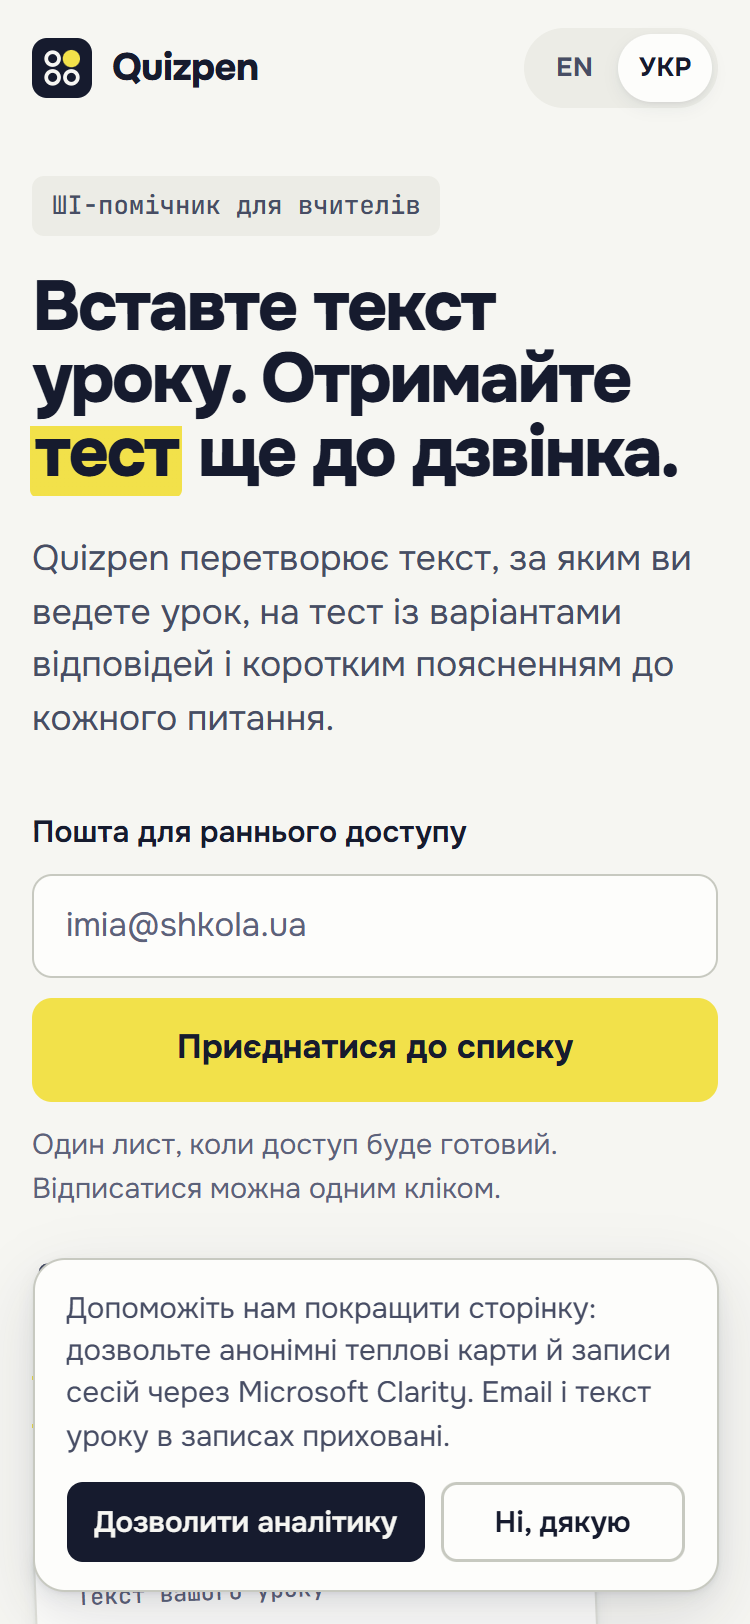
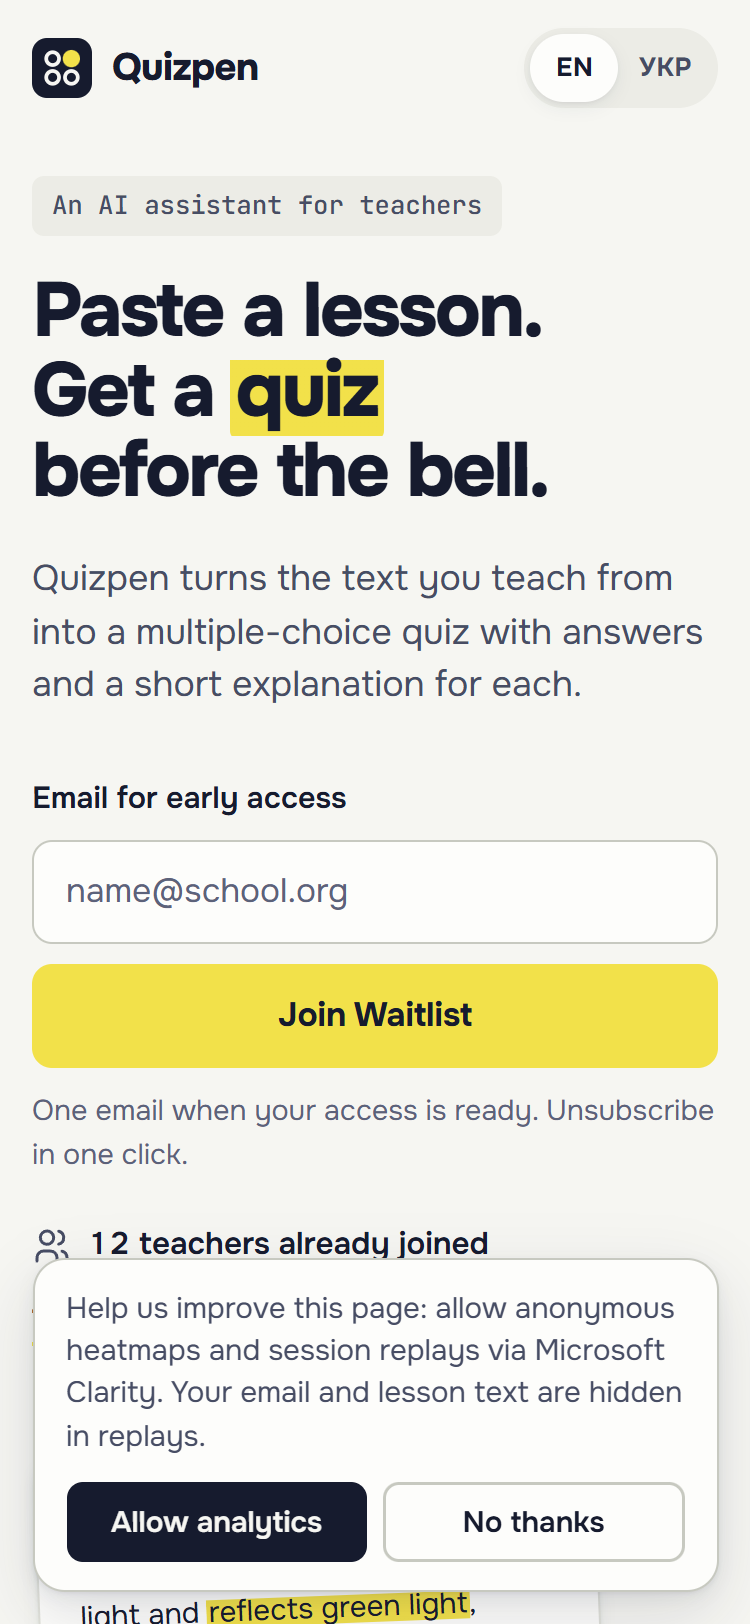
Analytics: real PostHog and Clarity IDs, student player sends nothing, site URL brrr28, docs
- Remove the ANALYTICS_STUDENT flag and all student tracking: web/play/ loads no analytics and keeps its no-network CSP
- analytics.js runs only on the landing and spec surfaces, never inside an iframe
- Drop the Search Console placeholder (verified by the HTML file); og/twitter URLs use brrr28.github.io/quizpen
- analytics-check: wait for real answer buttons (the loading skeleton also has .opt bars), English browser locale,
  IDs always overridden in the served config, play must send nothing; 31/31 pass
- ANALYTICS-SEO.md: events, consent rules, PostHog funnel, Clarity heatmaps, Search Console and sitemap

diff --git a/web/analytics.js b/web/analytics.js
@@ -3,7 +3,8 @@
    - Microsoft Clarity: heatmaps and session replays, loaded only when CLARITY_ID is set AND the visitor allowed it.
    - Nothing loads when the IDs are empty or the browser sends Do Not Track, Global Privacy Control or prefers-reduced-data.
    Never pass emails, lesson text, quiz text, referral codes or any other personal data to track().
-   Surfaces (data-surface on the script tag): landing (default), spec (PostHog only), play (student page, see below).
+   Surfaces (data-surface on the script tag): landing (default), spec (PostHog only).
+   The student player (web/play/) never loads this file: its page promises that answers are not sent anywhere.
    See ANALYTICS-SEO.md for setup. */
 (function () {
   'use strict';
@@ -14,7 +15,6 @@
   var KEY = String(window.POSTHOG_KEY || '').trim();
   var HOST = String(window.POSTHOG_HOST || '').trim().replace(/\/+$/, '') || 'https://eu.i.posthog.com';
   var CLARITY = String(window.CLARITY_ID || '').trim();
-  var STUDENT = window.ANALYTICS_STUDENT === true;
   var CONSENT_KEY = 'qp_consent', CONSENT_DAYS = 365;
   // Elements whose content must never reach session replays: email, lesson text, quiz text, referral and quiz links.
   var MASK = '#email, #lesson, input, textarea, #ref-link, #quiz-body, #thanks-body, .play-dialog';
@@ -41,6 +41,8 @@
     return false;
   }
   if (privacySignal()) return;
+  // Only the teacher-facing pages are tracked; any other surface (and any page inside an iframe) stays off.
+  if ((SURFACE !== 'landing' && SURFACE !== 'spec') || window.self !== window.top) return;
 
   // Props are limited to short primitives with snake_case keys; anything that looks like an email is dropped.
   function clean(props) {
@@ -53,29 +55,6 @@
       else if (typeof v === 'string' && v.length <= 40 && v.indexOf('@') < 0) out[k] = v;
     });
     return out;
-  }
-
-  /* ---------- Student player (web/play/): anonymous beacons, off unless ANALYTICS_STUDENT is true ---------- */
-  if (SURFACE === 'play') {
-    // The teacher's "Preview as student" iframe is not a student play, it is tracked on the landing instead.
-    if (!KEY || !STUDENT || window.self !== window.top) return;
-    api.enabled = true;
-    api.track = function (name, props) {
-      var properties = clean(props);
-      // One shared id for every student: no per-device id, no person profile, no GeoIP, no URL (the quiz lives in the fragment).
-      properties.distinct_id = 'anonymous_student';
-      properties.$process_person_profile = false;
-      properties.$geoip_disable = true;
-      properties.surface = 'play';
-      try {
-        fetch(HOST + '/i/v0/e/', {
-          method: 'POST', keepalive: true, credentials: 'omit', referrerPolicy: 'no-referrer',
-          headers: { 'Content-Type': 'application/json' },
-          body: JSON.stringify({ api_key: KEY, event: String(name), properties: properties })
-        }).catch(function () { /* analytics must never break the quiz */ });
-      } catch (e) { /* ignore */ }
-    };
-    return;
   }
 
   if (!KEY && !CLARITY) return;

diff --git a/web/index.html b/web/index.html
@@ -13,15 +13,15 @@
   <meta property="og:site_name" content="Quizpen">
   <meta property="og:title" content="Quizpen: paste a lesson, get a quiz before the bell">
   <meta property="og:description" content="An AI assistant for teachers that turns any lesson text into a multiple-choice quiz with answers and explanations. Try the live demo and join the waitlist.">
-  <meta property="og:image" content="https://pavloemilus.github.io/quizpen/og.png">
-  <meta property="og:url" content="https://pavloemilus.github.io/quizpen/">
+  <meta property="og:image" content="https://brrr28.github.io/quizpen/og.png">
+  <meta property="og:url" content="https://brrr28.github.io/quizpen/">
   <meta property="og:image:width" content="1200">
   <meta property="og:image:height" content="630">
   <meta property="og:image:alt" content="Quizpen: a paragraph about photosynthesis turned into a multiple-choice question">
   <meta name="twitter:card" content="summary_large_image">
   <meta name="twitter:title" content="Quizpen: paste a lesson, get a quiz before the bell">
   <meta name="twitter:description" content="Turn any lesson text into a multiple-choice quiz with answers and explanations. Join the teacher waitlist.">
-  <meta name="twitter:image" content="https://pavloemilus.github.io/quizpen/og.png">
+  <meta name="twitter:image" content="https://brrr28.github.io/quizpen/og.png">
 
   <!-- SEO (see ANALYTICS-SEO.md): canonical, language alternates, structured data -->
   <meta name="robots" content="index,follow">
@@ -31,8 +31,6 @@
   <link rel="alternate" hreflang="x-default" href="https://brrr28.github.io/quizpen/">
   <meta property="og:locale" content="en_US">
   <meta property="og:locale:alternate" content="uk_UA">
-  <!-- Google Search Console verification: replace this comment with the tag Search Console gives you, e.g.
-       <meta name="google-site-verification" content="TOKEN_FROM_SEARCH_CONSOLE"> -->
   <script type="application/ld+json">
   {
     "@context": "https://schema.org",

diff --git a/web/play/play.js b/web/play/play.js
@@ -45,9 +45,6 @@
 
   var lang = langFromUrl() || langFromStore();
   var state = null;
-  /* ---------- Analytics hook (../analytics.js): off unless ANALYTICS_STUDENT is true; no identifiers ---------- */
-  function track(name, props) { if (window.qpAnalytics) window.qpAnalytics.track(name, props); }
-  /* ---------- end of analytics hook ---------- */
 
   function langFromUrl() {
     var q = new URLSearchParams(location.search).get('lang');
@@ -138,7 +135,6 @@
 
   function begin() {
     state.i = 0; state.picks = []; state.streak = 0; state.best = 0;
-    track('student_quiz_started', { questions: state.quiz.questions.length }); // analytics
     renderQuestion();
   }
 
@@ -185,7 +181,6 @@
     if (state.picks[state.i] !== undefined) return;
     var qs = state.quiz.questions, q = qs[state.i], ok = k === q.answer, keys = t('keys');
     state.picks[state.i] = k;
-    track('student_quiz_answered', { index: state.i, correct: ok }); // analytics
     state.streak = ok ? state.streak + 1 : 0;
     state.best = Math.max(state.best, state.streak);
 
@@ -208,7 +203,6 @@
 
     var last = state.i === qs.length - 1;
     var next = button('btn-primary', last ? t('finish') : t('next'), function () {
-      if (last) track('student_quiz_completed', { score: state.picks.filter(function (p, j) { return p === qs[j].answer; }).length, questions: qs.length }); // analytics
       state.i++;
       if (last) renderFinal(); else renderQuestion();
     }, 'arrow');
@@ -308,7 +302,6 @@
       if (!r.ok) { renderError(r.error); return; }
       if (!langFromUrl() && !langFromStore() && r.lang) setLang(r.lang);
       state = { quiz: r.quiz, i: 0, picks: [], streak: 0, best: 0 };
-      track('student_quiz_opened', { lang: lang, questions: r.quiz.questions.length }); // analytics
       document.title = (r.quiz.title ? r.quiz.title + ' · ' : '') + 'Quizpen';
       renderStart();
     }, function () { renderError('broken'); });

diff --git a/web/play/index.html b/web/play/index.html
@@ -3,8 +3,7 @@
 <head>
   <meta charset="utf-8">
   <meta name="viewport" content="width=device-width, initial-scale=1, viewport-fit=cover">
-  <!-- The player talks to no server: scripts and styles from this site only, no fetch/XHR at all.
-       Student analytics (ANALYTICS_STUDENT in ../config.js) would also need connect-src for the PostHog host here, see ANALYTICS-SEO.md. -->
+  <!-- The player talks to no server: scripts and styles from this site only, no fetch/XHR at all. -->
   <meta http-equiv="Content-Security-Policy" content="default-src 'none'; script-src 'self'; style-src 'self'; img-src 'self' data:; base-uri 'none'; form-action 'none'">
   <meta name="referrer" content="no-referrer">
   <meta name="robots" content="noindex,follow">
@@ -12,10 +11,6 @@
   <title>Quizpen quiz</title>
   <link rel="icon" href="../favicon.svg" type="image/svg+xml">
   <link rel="stylesheet" href="play.css">
-  <!-- Analytics: off by default on the student page, never with identifiers (see ANALYTICS-SEO.md) -->
-  <script src="../config.js"></script>
-  <script src="../analytics.js" data-surface="play" defer></script>
-  <!-- end of analytics -->
   <script src="codec.js" defer></script>
   <script src="play.js" defer></script>
 </head>

diff --git a/web/config.js b/web/config.js
@@ -3,10 +3,8 @@ window.WAITLIST_API = "";
 
 // Product analytics (web/analytics.js). Empty = off, nothing loads. Setup: ANALYTICS-SEO.md.
 // PostHog project API key (starts with "phc_"), from PostHog > Settings > Project > Project API key.
-window.POSTHOG_KEY = "";
+window.POSTHOG_KEY = "phc_nLGxz5j5aoR2gjN8Sa7MsvEwASnu6Ksi5BpE5Pr8RpXA";
 // PostHog ingestion host: EU cloud by default.
 window.POSTHOG_HOST = "https://eu.i.posthog.com";
 // Microsoft Clarity project ID (Clarity > Settings > Overview > Project ID). Loads only after visitor consent.
-window.CLARITY_ID = "";
-// Anonymous events from the student player (web/play/). Keep false until the player's privacy text and CSP are updated.
-window.ANALYTICS_STUDENT = false;
+window.CLARITY_ID = "zgq7ee1jfw";

diff --git a/ANALYTICS-SEO.md b/ANALYTICS-SEO.md
@@ -1,0 +1,60 @@
+# Аналитика и SEO Quizpen
+
+Сайт: https://brrr28.github.io/quizpen/ . Код: `web/analytics.js` (подключён в `web/index.html` и `web/spec/index.html`), ключи в `web/config.js`.
+
+## Что собираем и зачем
+
+**PostHog (EU, eu.i.posthog.com)** — воронка: сколько учителей доходят от лендинга до записи в список и помогает ли демо.
+Без cookies и localStorage (persistence `memory`): у каждой загрузки страницы свой анонимный id, профилей нет, IP можно отбросить в настройках проекта. Автосбор кликов выключен, считаются только наши события.
+
+| Событие | Когда | Свойства |
+|---|---|---|
+| `landing_viewed` | открыт лендинг или spec | `lang`, `has_ref` |
+| `demo_started` | нажали «Создать тест» | `sample` (id готового примера или `custom`), `lang` |
+| `quiz_generated` | тест показан или ошибка | `ok`, `ms`, `source` (`live` / `fallback`) |
+| `quiz_answered`, `quiz_completed` | ответ на вопрос, конец теста | `index`, `correct` / `score`, `questions` |
+| `quiz_copied`, `share_opened`, `student_preview_opened` | копирование теста, «Поделиться с классом», «Превью для ученика» | — |
+| `signup_submitted`, `signup_succeeded` | отправка и успех записи | `has_ref`, `already`, `demo_used` |
+| `referral_link_copied`, `referral_shared` | своя реферальная ссылка | `channel` |
+| `lang_switched`, `theme_toggled`, `consent_chosen` | язык, тема, выбор по аналитике | `from`/`to`, `theme`, `choice` |
+
+Никогда не уходят: почта, текст урока, текст теста, реферальный код, `?ref=` и `#…` из адреса (вычищаются перед отправкой).
+
+**Microsoft Clarity** — тепловые карты и записи сессий, только после согласия. Поля почты, урока, теста, ссылок и окна «Поделиться» замаскированы.
+
+**Страница ученика (`web/play/`) не шлёт ничего**: там написано, что ответы никуда не отправляются, поэтому `analytics.js` туда не подключён, и CSP страницы блокирует любые запросы. Превью в iframe тоже молчит.
+
+## Согласие
+
+- Без ключей в `config.js` ничего не грузится.
+- Do Not Track, Global Privacy Control или «экономия трафика» в браузере — не грузится ничего, даже PostHog.
+- PostHog-события идут сразу (анонимно, без cookies). Clarity и записи сессий PostHog — только после «Allow analytics».
+- Плашка EN/UA внизу, выбор хранится 365 дней (`localStorage.qp_consent`). Отозвать: кнопка «Analytics settings» / «Налаштування аналітики» в подвале.
+- Страница `spec/` — только PostHog, без плашки и без Clarity.
+
+## Воронка в PostHog
+
+eu.posthog.com → Product analytics → New insight → **Funnels**:
+1. `landing_viewed`
+2. `demo_started`
+3. `quiz_generated` (фильтр `ok = true`)
+4. `signup_succeeded`
+
+Фильтр `surface = landing` (или `spec` для второго варианта страницы). Окно конверсии — 1 час. Так как id живёт одну загрузку страницы, воронка считает путь внутри одного визита.
+Демо против без демо: Breakdown по `demo_used` на `signup_succeeded`, или две воронки `landing_viewed → signup_succeeded` с шагом-исключением `demo_started` и `landing_viewed → demo_started → signup_succeeded`.
+В настройках проекта включить «Discard client IP data».
+
+## Тепловые карты Clarity
+
+clarity.microsoft.com → проект Quizpen → **Heatmaps** → страница `brrr28.github.io/quizpen/`; записи — **Recordings**. Данные только от тех, кто нажал «Allow analytics». Маскирование в проекте — Balanced.
+
+## Search Console и sitemap
+
+- Владение подтверждено HTML-файлом `web/googlecc0c4bdfc53fdacd.html` (лежит на main и gh-pages). **Не удалять** — иначе подтверждение слетит.
+- На странице: canonical, hreflang en / uk / x-default, robots `index,follow`, JSON-LD (WebSite + EducationalApplication, цена 0). `?lang=uk` — свой canonical. `spec/` и `play/` — `noindex,follow`.
+- Sitemap: `https://brrr28.github.io/quizpen/sitemap.xml` (обе языковые версии). После выкладки: Search Console → Sitemaps → добавить `sitemap.xml`; URL Inspection → Request indexing для `/` и `/?lang=uk`.
+- robots.txt не нужен и невозможен: сайт проекта GitHub Pages не может отдать `/robots.txt` в корне домена.
+
+## Проверка
+
+`node web/dev/analytics-check.mjs` (через `heavy-run`): свой сервер, headless Chrome, запросы к PostHog и Clarity перехватываются и никуда не уходят, ключи подменяются пустыми или тестовыми.
